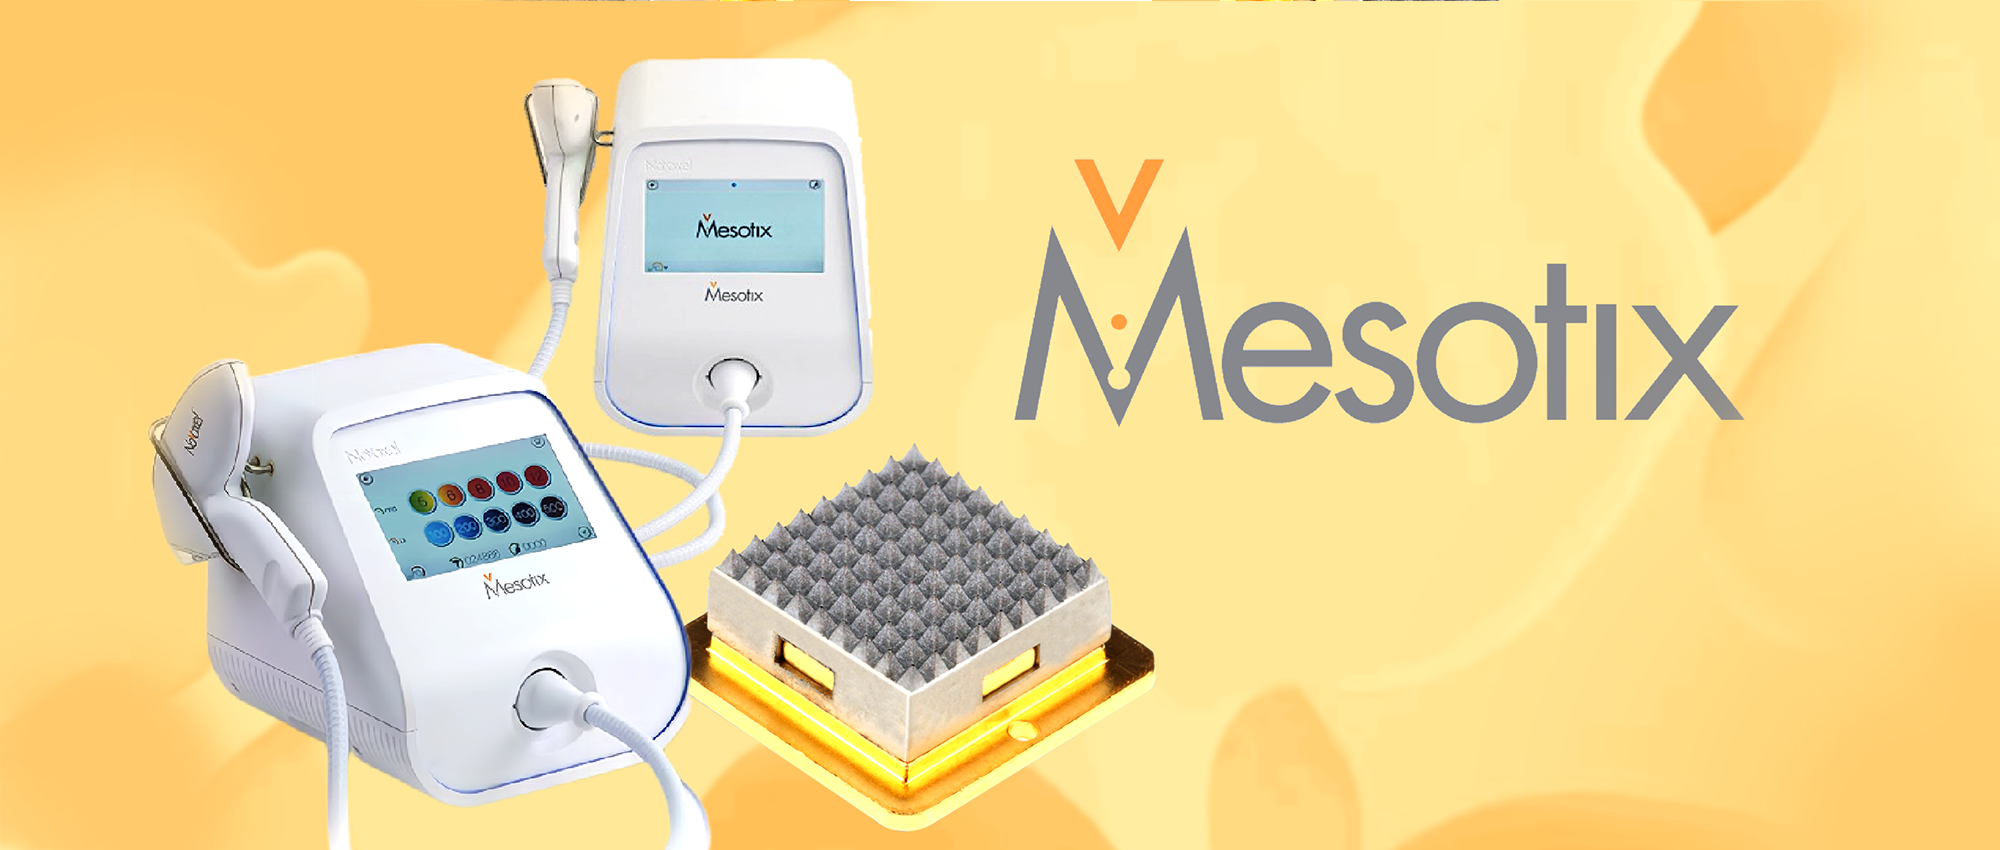
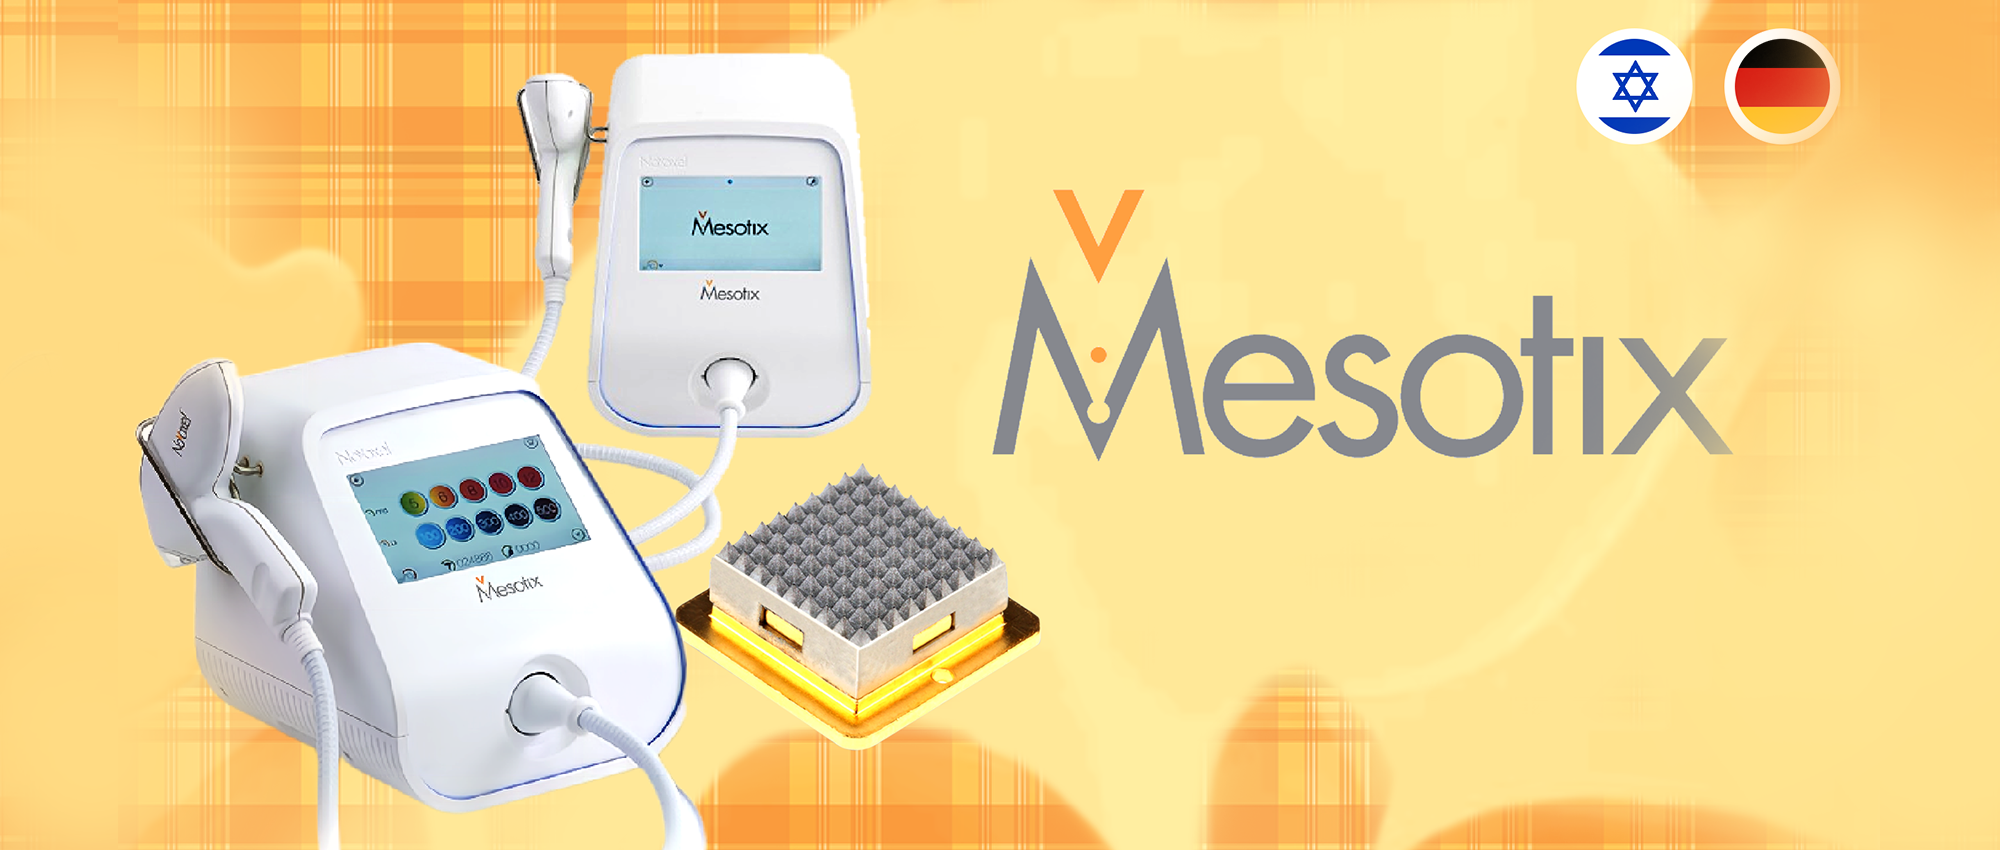
update all

diff --git a/prxt33.html b/prxt33.html
@@ -8,6 +8,19 @@
     <link href="assets/vendor/Bootstrap/css/bootstrap.min.css" rel="stylesheet"/>
     <link href="assets/vendor/FontAwesome/css/all.min.css" rel="stylesheet"/>
     <link href="assets/css/style.css" rel="stylesheet"/>
+    <style>
+        body{
+            background-color: #fed8ec;
+        }
+
+        .regen-content-title{
+            color: #87004e;
+        }
+
+        .regen-service{
+            background: url(assets/images/background/bg01_prxt33.jpg) no-repeat center top;
+        }
+    </style>
 </head>
 <body>
 
@@ -68,10 +81,9 @@
 <!--Slider End-->
 
 <!--Service Start-->
-<section>
-    <div class="container mt-5 pb-lg-5 pb-5 text-center">
-        <hr/>
-        <h1 class="regen-content-title mt-5">
+<section class="regen-service">
+    <div class="container pb-lg-5 pb-5 text-center">
+        <h1 class="regen-content-title pt-5">
             意大利專利配方PRX-T33(放中間)
         </h1>
         <p class="regen-content-paragraph text-start">

diff --git a/toskani.html b/toskani.html
@@ -8,6 +8,20 @@
     <link href="assets/vendor/Bootstrap/css/bootstrap.min.css" rel="stylesheet"/>
     <link href="assets/vendor/FontAwesome/css/all.min.css" rel="stylesheet"/>
     <link href="assets/css/style.css" rel="stylesheet"/>
+
+    <style>
+        body{
+            background-color: #e1e9fc;
+        }
+
+        .regen-content-title{
+            color: #16848d;
+        }
+
+        .regen-service{
+            background: url(assets/images/background/bg01_ltokani.jpg) no-repeat center top;
+        }
+    </style>
 </head>
 <body>
 
@@ -69,7 +83,7 @@
 
 <!--Diamond Start-->
 <section class="regen-service">
-    <div class="container mt-5 pb-3">
+    <div class="container pt-5 pb-3">
         <h1 class="regen-content-title">西班牙醫美品牌Toskani(放中間)</h1>
         <p class="regen-content-paragraph">
             Toskani擁有超過30年歷史的西班牙美容品牌，曾榮獲歐洲醫學美容產品權威<br><br>

diff --git a/mesotix.html b/mesotix.html
@@ -8,6 +8,20 @@
     <link href="assets/vendor/Bootstrap/css/bootstrap.min.css" rel="stylesheet"/>
     <link href="assets/vendor/FontAwesome/css/all.min.css" rel="stylesheet"/>
     <link href="assets/css/style.css" rel="stylesheet"/>
+
+    <style>
+        body{
+            background-color: #dddce1;
+        }
+
+        .regen-content-title{
+            color: #ff9f40;
+        }
+
+        .regen-service{
+            background: url(assets/images/background/bg01_mesotix.jpg) no-repeat center top;
+        }
+    </style>
 </head>
 <body>
 
@@ -69,9 +83,8 @@
 
 <!--Diamond Start-->
 <section class="regen-service">
-    <div class="container mt-5 pb-3">
-        <hr/>
-        <h1 class="regen-content-title mt-5">
+    <div class="container pb-3">
+        <h1 class="regen-content-title pt-5">
             德國及以色列合作研發Mesotix (中間)
         </h1>
         <p class="regen-content-paragraph">

diff --git a/coollifting.html b/coollifting.html
@@ -8,6 +8,19 @@
     <link href="assets/vendor/Bootstrap/css/bootstrap.min.css" rel="stylesheet"/>
     <link href="assets/vendor/FontAwesome/css/all.min.css" rel="stylesheet"/>
     <link href="assets/css/style.css" rel="stylesheet"/>
+    <style>
+        body{
+            background-color: #3699ca;
+        }
+
+        .regen-content-title{
+            color: #6cc8e7;
+        }
+
+        .regen-service{
+            background: url(assets/images/background/bg01_coollifting.jpg) no-repeat center top;
+        }
+    </style>
 </head>
 <body>
 
@@ -69,9 +82,8 @@
 
 <!--Diamond Start-->
 <section class="regen-service">
-    <div class="container mt-5 pb-3">
-        <hr/>
-        <h1 class="regen-content-title mt-5">
+    <div class="container pb-3">
+        <h1 class="regen-content-title pt-5">
             西班牙CooLifting (放中間)
         </h1>
         <p class="regen-content-paragraph">

diff --git a/index.html b/index.html
@@ -8,6 +8,15 @@
     <link href="assets/vendor/Bootstrap/css/bootstrap.min.css" rel="stylesheet"/>
     <link href="assets/vendor/FontAwesome/css/all.min.css" rel="stylesheet"/>
     <link href="assets/css/style.css" rel="stylesheet"/>
+    <style>
+        body{
+            background-color: #f8f9f9;
+        }
+
+        .regen-service{
+            background: url(assets/images/background/bg01_gg.jpg) no-repeat center top;
+        }
+    </style>
 </head>
 <body>
 
